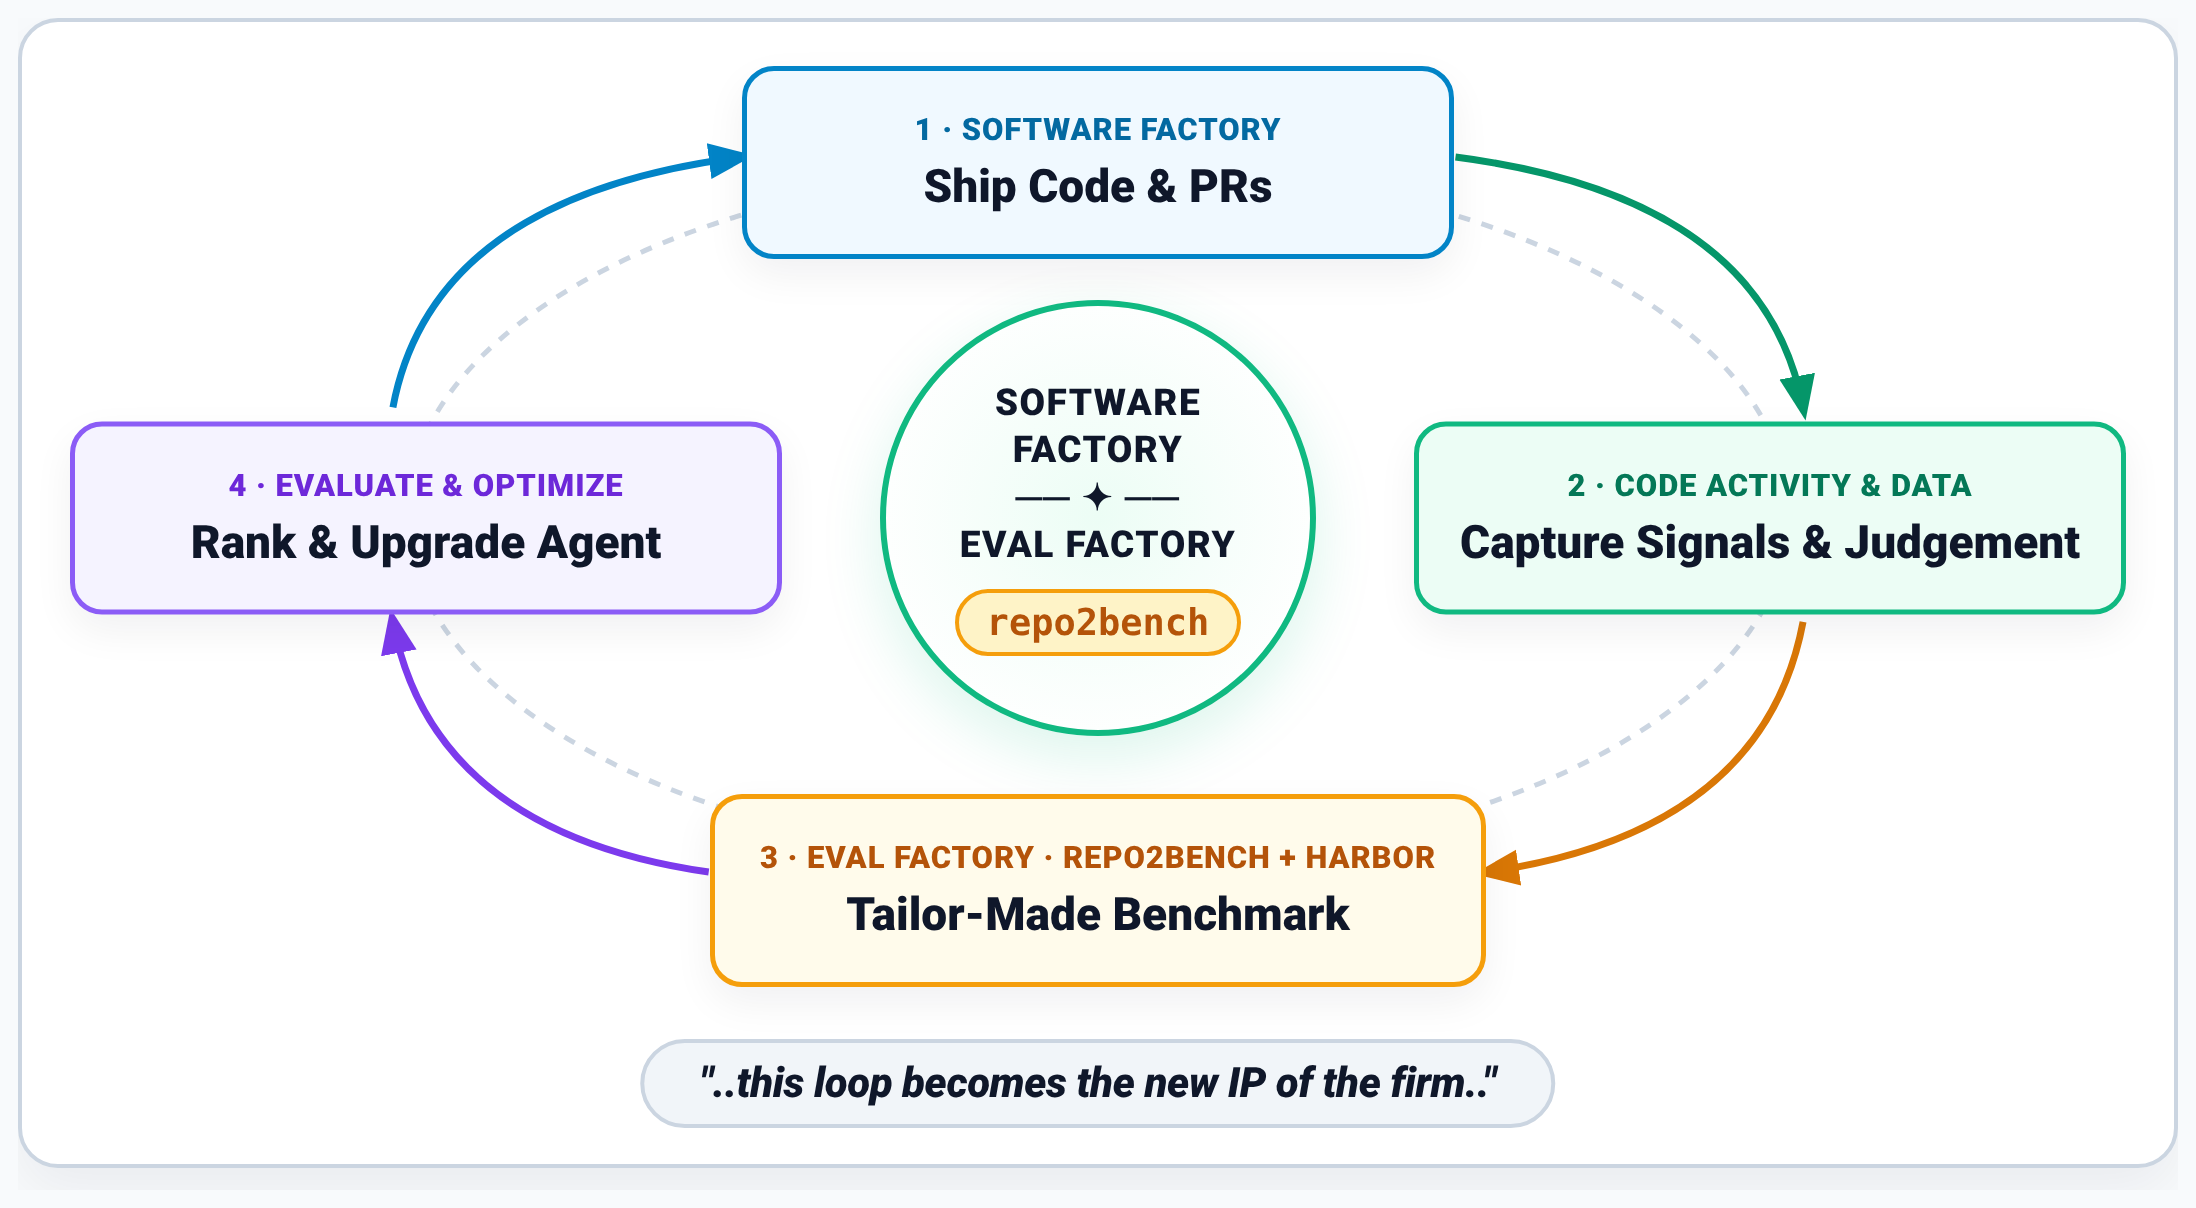
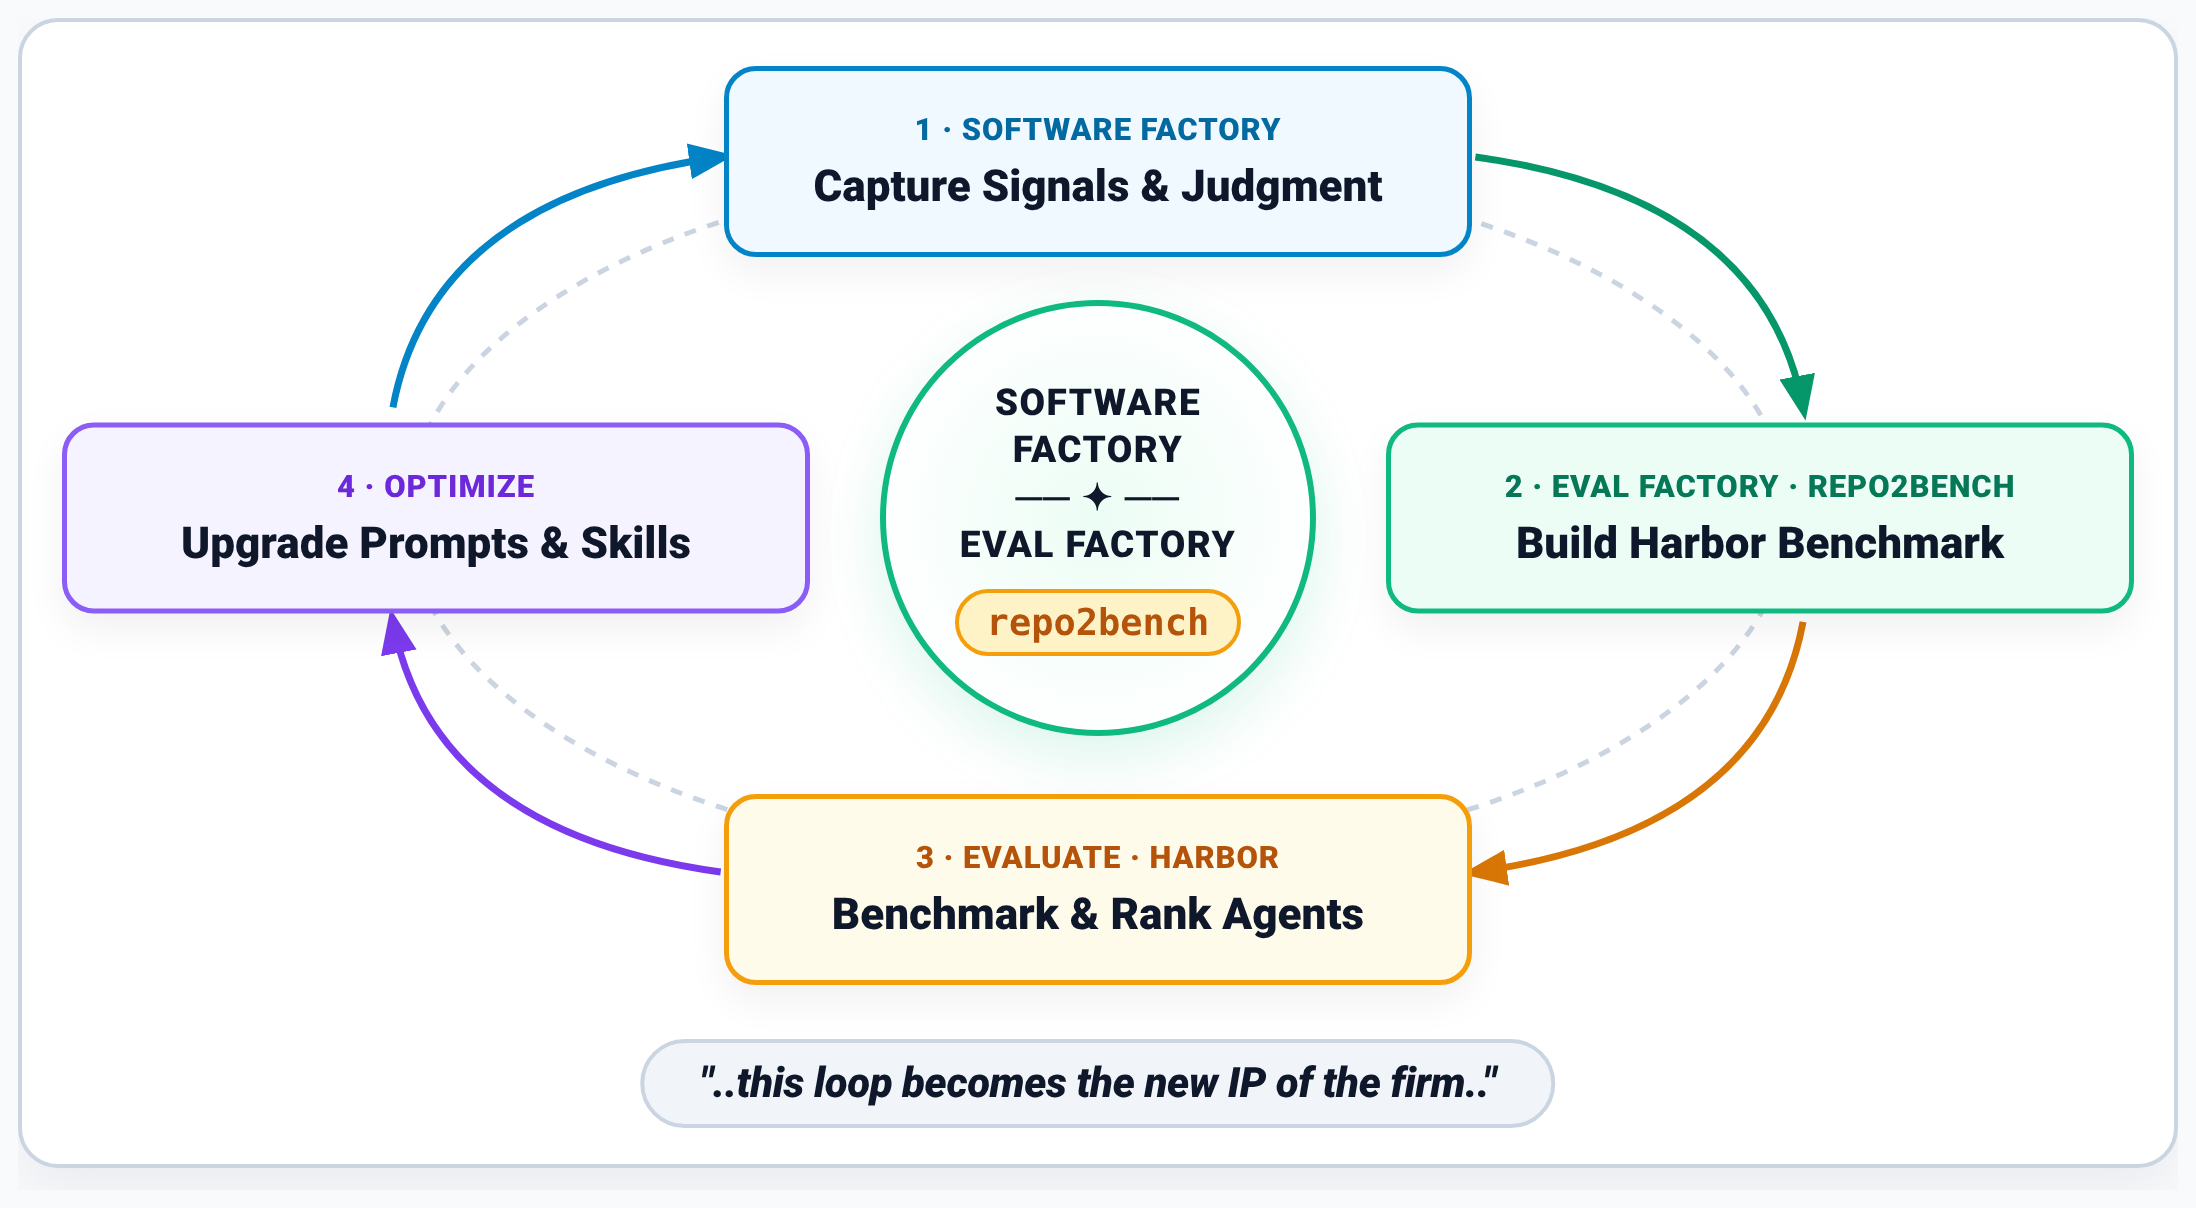
Align overview flywheel diagram and README intro with 4-step Harbor loop

diff --git a/README.md b/README.md
@@ -11,11 +11,13 @@
 
 ## Why `repo2bench`?
 
-Easy code generation makes verification the bottleneck. When everyone has access to the same frontier models and agent harnesses, your unique advantage is your engineering judgment—and how systematically you turn that judgment into a custom benchmark that evaluates and improves agents on your own codebase.
+How do most teams pick their coding agent today? Brand hype, top-down mandates, 30 minutes of manual "vibe testing," or checking generic public leaderboards like SWE-bench Verified, Terminal-Bench, or SWE-bench Pro. None of those test your architecture, your conventions, or your test suite.
 
-Public coding benchmarks test generic repositories (`pytest`, `copier`, `django`) that look nothing like your codebase. When you evaluate `Harness × Model × Thinking Budget` on your own repo:
-- **Leaderboard rankings flip:** Configurations that rank `#6` on generic public benchmarks can jump to `#1` on your architecture at a fraction of the cost.
-- **Hidden harness bottlenecks surface:** You immediately see where an agent's tool loop, context caching, or test-execution strategy breaks down on your repo's layout—giving you a concrete target to tune your agent rules, skills, and prompts.
+Easy code generation makes verification the bottleneck: when everyone has access to the same frontier models and agent harnesses, your unique advantage is your engineering judgment—and how systematically you turn that judgment into an **Eval Factory** for your **Software Factory**.
+
+When you evaluate `Harness × Model × Thinking Budget` directly on your own repo:
+- **Counter-intuitive quality & cost winners emerge:** Models with higher per-token list prices can cost **40%+ less per task** when they localize bugs in half the turns, while cranking `Thinking Budget` from `medium` to `high` can actually *lower* accuracy on multi-module repos.
+- **Hidden harness bottlenecks surface:** Container trajectories immediately reveal where an agent's tool loop, prefix caching, or `pytest` strategy breaks down on your repo's layout—giving you a concrete `Train / Held-Out Test` split to evolve repo-specific prompts, skills, and verification scripts (manual or automated via [`Harness²`](https://github.com/google-research/harness2)).
 
 ---
 
